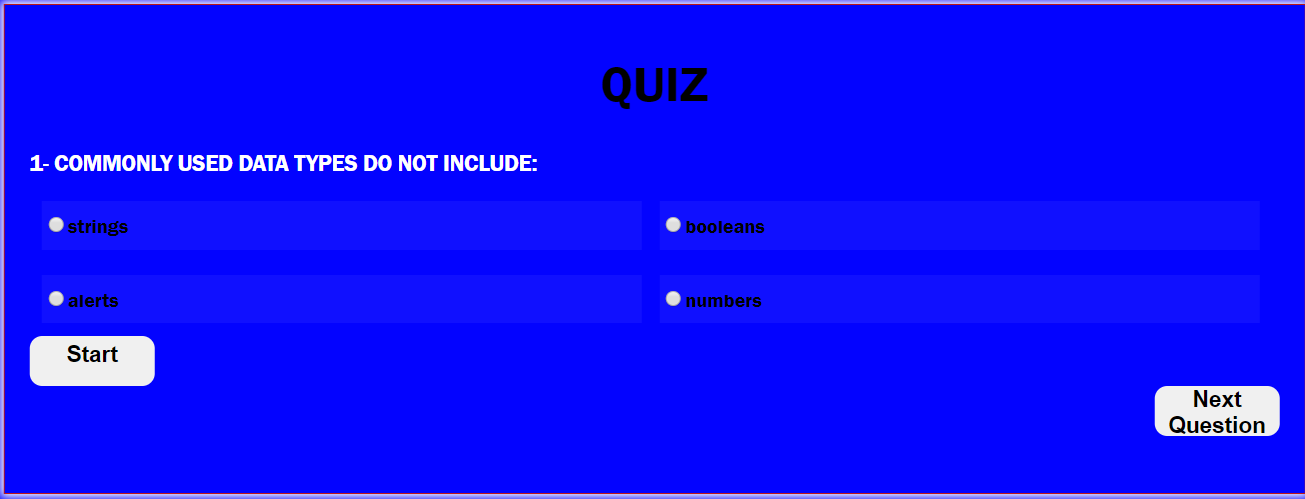
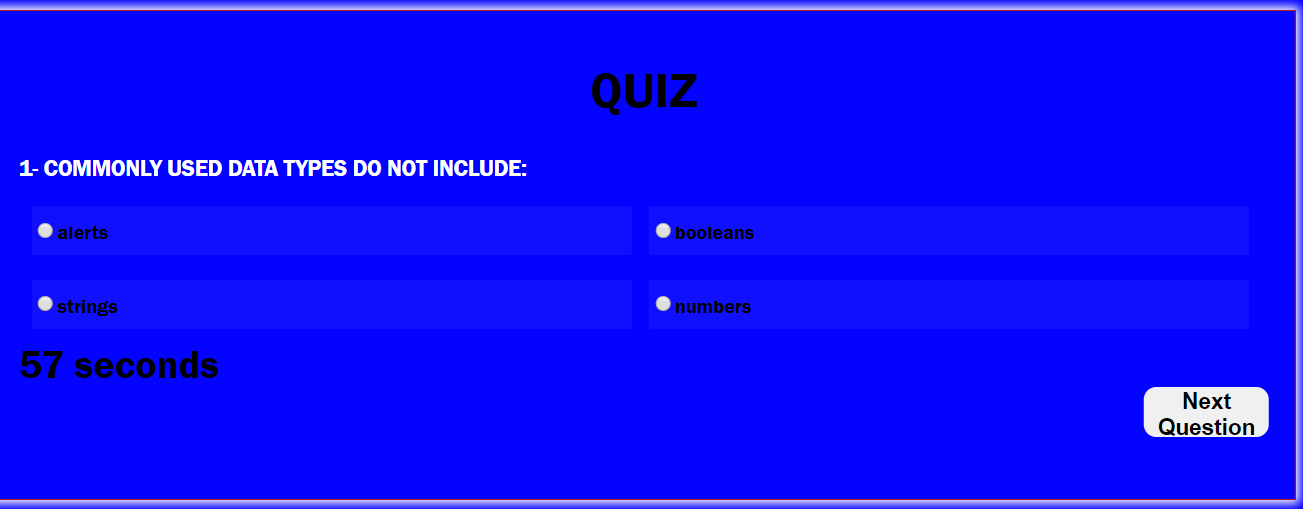
updating readme

diff --git a/quiz-script.js b/quiz-script.js
@@ -8,7 +8,7 @@ var opt1 = document.getElementById("opt1");
 var opt2 = document.getElementById("opt2");
 var opt3 = document.getElementById("opt3");
 var opt4 = document.getElementById("opt4");
-
+var seconds = 60
 var nextButton = document.getElementById("nextButton");
 var resultCont = document.getElementById("result");
 
@@ -18,6 +18,7 @@ startButton.addEventListener('click', startGame, countdown,)
 
 
 alert("Heres is a 60 seconds multiple choice quiz. If you answer incorrectly you will lose 5 seconds off your time, PRESS START when you are ready" )
+
 function startGame() {
     console.log('Started')
     
@@ -34,7 +35,7 @@ function startGame() {
     if(seconds --> 0) setTimeout(countdown, 1000);
     if(seconds < 0) {
       alert("Time is up");
-    }
+   }
 })();
 }
 
@@ -61,6 +62,11 @@ function loadNextQuestion (){
     if(question[currentQuestion].answer == answer){
         score +=25;
     }
+    // var answer = selectOption.value;
+    // if(question[currentQuestion].answer === false){
+    //     seconds - 5;
+    //    alert("incorrect")
+    // }
     selectOption.checked = false;
     currentQuestion++;
     if(currentQuestion == totQuestions - 1){
@@ -73,11 +79,9 @@ function loadNextQuestion (){
         return;
     }
     loadQuestion(currentQuestion);
-
-    
 }
-loadQuestion(currentQuestion);
+    loadQuestion(currentQuestion);
 
 // THEN I can save my initials and score
 // need penalities for wrong answers
-// need to work on timer where it dont start right away, but when you hit the start button
+

diff --git a/quiz.css b/quiz.css
@@ -21,7 +21,7 @@ body {
 .title{
     padding-top: 20px;
     text-align: center;
-    font-size: 40px;
+    font-size: 60px;
     text-transform: uppercase;
     color: 1px solid rgb(187, 24, 24); 
 }
@@ -89,7 +89,7 @@ body {
     cursor: pointer;
     margin: auto;
     padding-bottom:10px;
-    font-size: large;
+    font-size: 100px;
     font-weight: bold;
     position: absolute;
     top: 50%;

diff --git a/question.js b/question.js
@@ -26,7 +26,15 @@ var question = [{
     "option3":"curly brackets",
     "option4":"parentheses",
     "answer":"2"
-}]
+}, {
+    "question":"How long is the part time class for Coding boot camp?",
+    "option1":"3 months",
+    "option2":"1 year",
+    "option3":"2 years",
+    "option4":"6 months",
+    "answer":"4"
+}
+]
 
 
 

diff --git a/quiz.html b/quiz.html
@@ -23,11 +23,7 @@
         <div id="countdown"style="font-size:xx-large"></div>
         <button id="nextButton" class="next-btn" onclick="loadNextQuestion();">Next Question</button>
     </div>
-    
   
-   
-       
-
     <div id="result" class="Container result" style="display:none">
     </div>
     

diff --git a/README.md b/README.md
@@ -1,11 +1,14 @@
 # Making-a-Quiz
 Heres the links https://vannaksuos.github.io/Making-a-Quiz/
 https://github.com/vannaksuos/Making-a-Quiz
+This quiz starts with a Start button
+once you hit the start button a
 quiz has a timer that start when you hit the start button
 This is a 60 second quiz of multiple choices.
 Theres a timer that counts down and if you answer the question wrong it would have taken some time off the clock. (Im still working on this)
 I needed a screen shot of the Quiz
-You get 10 points for answering the questions correct
+You get 25 points for answering the questions correct
+there should be a high score board where you can input your initial 
 ![](https://github.com/vannaksuos/Making-a-Quiz/blob/master/screenshots/Capture1.PNG)
 ![](https://github.com/vannaksuos/Making-a-Quiz/blob/master/screenshots/Capture2.PNG)
 ![](https://github.com/vannaksuos/Making-a-Quiz/blob/master/screenshots/Capture3.PNG)
